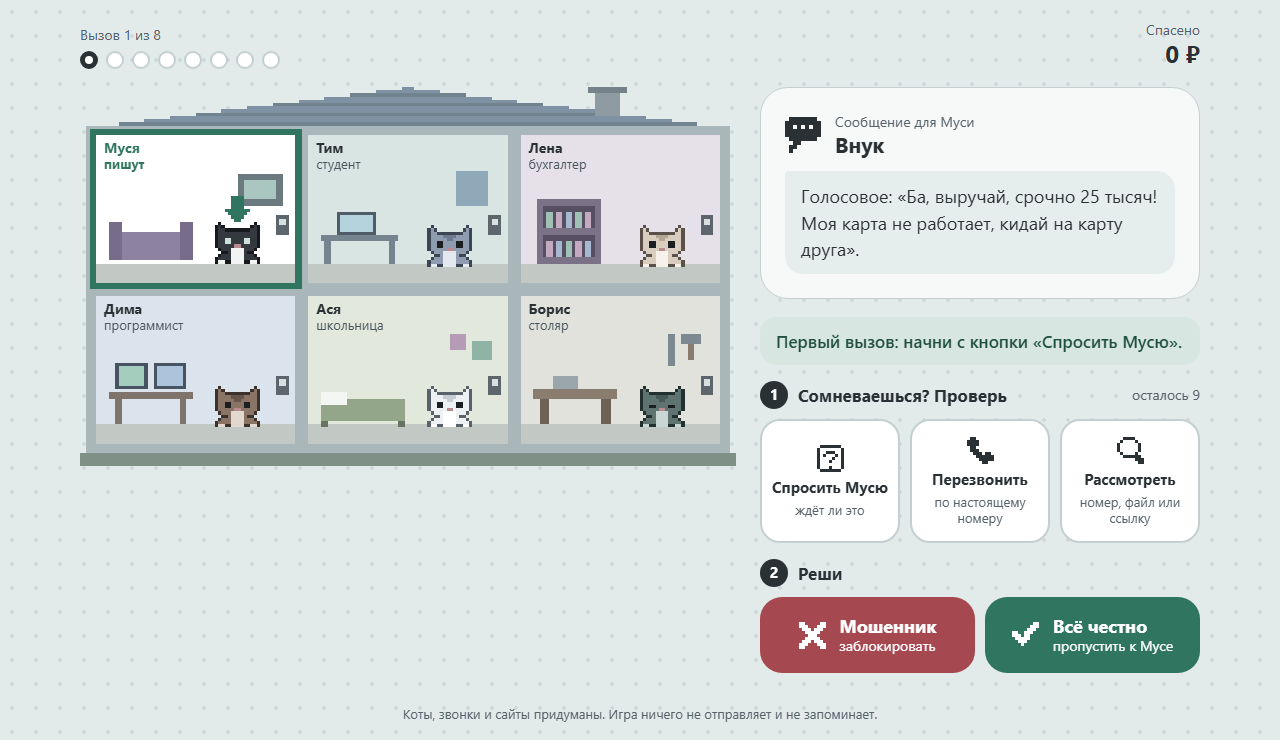
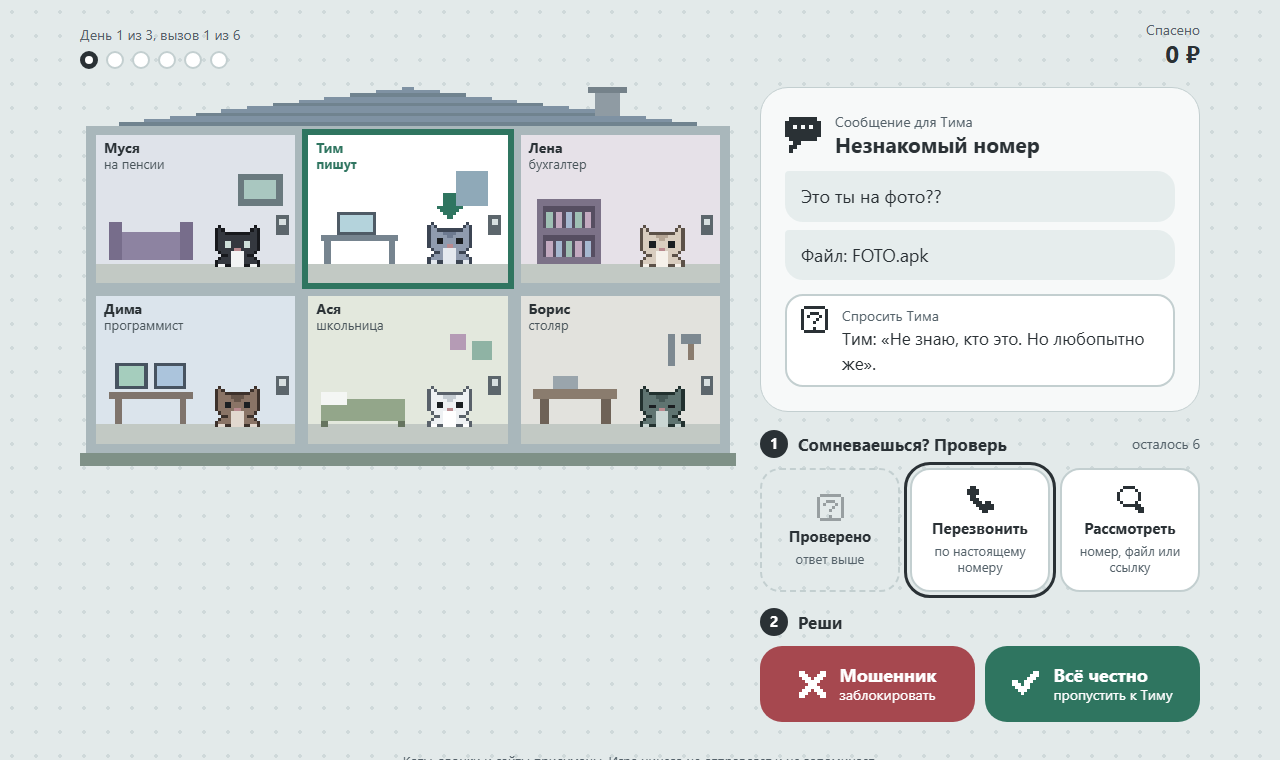
Три дня и память о потерях

diff --git a/js/app.js b/js/app.js
@@ -1,10 +1,11 @@
-// Смена телефониста. Все тексты выводятся через textContent.
+// Три дня телефониста. Все тексты выводятся через textContent.
 (() => {
   const $ = id => document.getElementById(id), card = $('card'), desk = $('desk'), bar = $('bar'), tags = $('tags'), live = $('live'), hg = $('house').getContext('2d');
   const KIND = { call: 'Звонок', sms: 'СМС', chat: 'Сообщение', mail: 'Письмо' };
-  const SCAMS = 5, FAIR = 3, TOTAL = SCAMS + FAIR, CHECKS = 9;
+  const DAYS = [{ scam: 3, fair: 3, checks: 7 }, { scam: 4, fair: 3, checks: 7 }, { scam: 5, fair: 3, checks: 6 }];
+  const ALL = DAYS.reduce((n, d) => n + d.scam + d.fair, 0);
   const calm = matchMedia('(prefers-reduced-motion: reduce)').matches;
-  let shift = [], at = 0, left = CHECKS, used = {}, saved = 0, lost = 0, right = 0, dropped = 0, log = [], state, notes, onKey = null, f = 10;
+  let day = 0, pool = {}, harmed = [], chased = {}, dayRight = 0, daySaved = 0, dayLost = 0, shift = [], at = 0, left = 0, used = {}, saved = 0, lost = 0, right = 0, dropped = 0, log = [], state, notes, onKey = null, f = 10;
 
   function el(tag, cls, ...kids) { const n = document.createElement(tag); if (cls) n.className = cls; for (const k of kids) if (k != null) n.append(k); return n; }
   function button(cls, fn, ...kids) { const b = el('button', cls, ...kids); b.type = 'button'; b.onclick = fn; return b; }
@@ -26,28 +27,35 @@
     }));
   }
   function refresh() { paint(); label(); }
-  function reset() { state = CATS.map(() => 'idle'); notes = CATS.map(() => ''); refresh(); }
+  function reset() { state = CATS.map(() => 'idle'); notes = CATS.map((c, i) => harmed[i] ? 'потеря ' + money(harmed[i]) : ''); refresh(); }
 
   function progress() {
-    const row = el('div', 'steps'); row.setAttribute('role', 'img'); row.setAttribute('aria-label', 'Вызов ' + Math.min(at + 1, TOTAL) + ' из ' + TOTAL);
-    for (let i = 0; i < TOTAL; i++) row.append(el('i', log[i] === undefined ? (i === at ? 'now' : '') : log[i] ? 'ok' : 'bad'));
-    bar.replaceChildren(el('div', '', el('small', '', 'Вызов ' + Math.min(at + 1, TOTAL) + ' из ' + TOTAL), row), el('div', 'sum', el('small', '', 'Спасено'), el('b', '', money(saved))));
+    const total = shift.length, text = 'День ' + (day + 1) + ' из ' + DAYS.length + ', вызов ' + Math.min(at + 1, total) + ' из ' + total;
+    const row = el('div', 'steps'); row.setAttribute('role', 'img'); row.setAttribute('aria-label', text);
+    for (let i = 0; i < total; i++) row.append(el('i', log[i] === undefined ? (i === at ? 'now' : '') : log[i] ? 'ok' : 'bad'));
+    bar.replaceChildren(el('div', '', el('small', '', text), row), el('div', 'sum', el('small', '', 'Спасено'), el('b', '', money(saved))));
   }
   const step = (n, text, ...kids) => el('section', 'step', el('h3', '', el('i', '', String(n)), text), ...kids);
 
   // ===== начало
   function start() {
-    reset(); bar.replaceChildren();
+    harmed = CATS.map(() => 0); reset(); bar.replaceChildren();
     const how = (n, icon, color, title, text) => el('li', '', Pixel.icon(icon, color), el('div', '', el('b', '', title), el('span', '', text)));
     card.replaceChildren(el('h1', '', 'Кот на проводе'), el('p', 'lead', 'Все звонки и сообщения этого дома идут через тебя. Не дай мошенникам обмануть котов.'));
-    desk.replaceChildren(el('ol', 'how', how(1, 'chat', undefined, 'Прочитай', 'Кто и что хочет от кота'), how(2, 'look', undefined, 'Проверь', 'Если есть сомнения. Всего ' + CHECKS + ' проверок'), how(3, 'yes', '#2f7560', 'Реши', 'Пропустить или заблокировать')),
-      button('big go', begin, 'Начать'));
+    desk.replaceChildren(el('ol', 'how', how(1, 'chat', undefined, 'Прочитай', 'Кто и что хочет от кота'), how(2, 'look', undefined, 'Проверь', 'Если есть сомнения. Проверок не хватит на всё'), how(3, 'yes', '#2f7560', 'Реши', 'Пропустить или заблокировать')),
+      button('big go', begin, 'Начать'), el('p', 'note', 'Три дня, около десяти минут.'));
     onKey = null;
   }
   function begin() {
-    const pick = (scam, n) => shuffle(CALLS.filter(c => c.scam === scam)).slice(0, n);
-    shift = shuffle([...pick(true, SCAMS), ...pick(false, FAIR)]);
-    at = saved = lost = right = dropped = 0; left = CHECKS; log = []; reset(); ring();
+    pool = { scam: shuffle(CALLS.filter(c => c.scam)), fair: shuffle(CALLS.filter(c => !c.scam)) };
+    day = saved = lost = right = dropped = 0; harmed = CATS.map(() => 0); chased = {}; openDay();
+  }
+  function openDay() {
+    const d = DAYS[day], scams = pool.scam.splice(0, d.scam), fair = pool.fair.splice(0, d.fair);
+    // обманутому жильцу на следующий день обещают вернуть деньги
+    const i = day ? CATS.findIndex((c, n) => harmed[n] && !chased[c.id]) : -1;
+    if (i >= 0) { const k = CATS[i]; chased[k.id] = true; scams[scams.length - 1] = { ...COMEBACK, to: k.id, ask: COMEBACK.ask.replace('{name}', k.name) }; }
+    shift = shuffle([...scams, ...fair]); at = dayRight = daySaved = dayLost = 0; left = d.checks; log = []; reset(); ring();
   }
 
   // ===== вызов
@@ -57,7 +65,7 @@
   }
   function ring() {
     const c = shift[at], i = room(c); used = {}; state = state.map(s => s === 'ring' ? 'idle' : s); state[i] = 'ring'; notes[i] = { call: 'звонят' }[c.kind] || 'пишут'; refresh(); draw();
-    live.textContent = 'Вызов ' + (at + 1) + ' из ' + TOTAL + '. ' + KIND[c.kind] + ' для ' + who(c).gen + '. ' + c.from + ': ' + c.lines.join(' ');
+    live.textContent = 'День ' + (day + 1) + ', вызов ' + (at + 1) + ' из ' + shift.length + '. ' + KIND[c.kind] + ' для ' + who(c).gen + '. ' + c.from + ': ' + c.lines.join(' ');
     onKey = e => { if (e.key >= '1' && e.key <= '3') check(['ask', 'call', 'look'][e.key - 1]); else if (e.key === 'ArrowLeft') decide(false); else if (e.key === 'ArrowRight') decide(true); };
     scrollTo(0, 0);
   }
@@ -68,7 +76,7 @@
     const row = el('div', 'checks');
     for (const [n, t, sub] of list) { const b = button('check', () => check(n), Pixel.icon(n), el('b', '', used[n] ? 'Проверено' : t), el('small', '', used[n] ? 'ответ выше' : sub)); b.disabled = !!used[n] || left === 0; row.append(b); }
     const s2 = step(1, 'Сомневаешься? Проверь', row); s2.querySelector('h3').append(pips);
-    const hint = at === 0 && left === CHECKS ? el('p', 'hint', 'Первый вызов: начни с кнопки «' + list[0][1] + '».') : null;
+    const hint = day === 0 && at === 0 && left === DAYS[0].checks ? el('p', 'hint', 'Первый вызов: начни с кнопки «' + list[0][1] + '».') : null;
     const s3 = step(2, 'Реши',  el('div', 'decide', button('big no', () => decide(false), Pixel.icon('no', '#fff'), el('span', '', 'Мошенник', el('small', '', 'заблокировать'))), button('big yes', () => decide(true), Pixel.icon('yes', '#fff'), el('span', '', 'Всё честно', el('small', '', 'пропустить к ' + k.dat)))));
     s3.classList.add('final'); desk.replaceChildren(...[hint, s2, s3].filter(Boolean));
     if (focus) (desk.querySelector('.check:not(:disabled)') || desk.querySelector('.no')).focus({ preventScroll: true });
@@ -81,34 +89,43 @@
 
   // ===== решение
   function decide(connect) {
-    const c = shift[at], k = who(c), i = room(c), good = connect !== c.scam; onKey = null; log[at] = good; if (good) right++;
+    const c = shift[at], k = who(c), i = room(c), good = connect !== c.scam; onKey = null; log[at] = good; if (good) { right++; dayRight++; }
     let head, text;
-    if (c.scam && !connect) { saved += c.sum; state[i] = 'ok'; notes[i] = 'в безопасности'; head = 'Правильно, это мошенник'; text = 'Спасено ' + money(c.sum); }
-    else if (c.scam) { lost += c.sum; state[i] = 'lost'; notes[i] = '−' + money(c.sum); head = 'Нет, это был мошенник'; text = k.name + ' теряет ' + money(c.sum); }
+    if (c.scam && !connect) { saved += c.sum; daySaved += c.sum; state[i] = 'ok'; notes[i] = 'в безопасности'; head = 'Правильно, это мошенник'; text = 'Спасено ' + money(c.sum); }
+    else if (c.scam) { lost += c.sum; dayLost += c.sum; harmed[i] += c.sum; state[i] = 'lost'; notes[i] = '−' + money(c.sum); head = 'Нет, это был мошенник'; text = k.name + ' теряет ' + money(c.sum); }
     else if (connect) { state[i] = 'ok'; notes[i] = 'на связи'; head = 'Правильно, всё честно'; text = 'Вызов дошёл до адресата'; }
     else { dropped++; state[i] = 'hurt'; notes[i] = 'без связи'; head = 'Нет, всё было честно'; text = k.name + ' остаётся без важного вызова'; }
+    if (harmed[i]) notes[i] = 'потеря ' + money(harmed[i]);
     refresh(); progress();
     card.replaceChildren(...message(c));
-    const next = button('big go', () => { at++; at < TOTAL ? ring() : finish(); }, at + 1 < TOTAL ? 'Следующий вызов' : 'Посмотреть итог');
+    const next = button('big go', () => { at++; at < shift.length ? ring() : day + 1 < DAYS.length ? evening() : finish(); }, at + 1 < shift.length ? 'Следующий вызов' : day + 1 < DAYS.length ? 'Закончить день' : 'Посмотреть итог');
     desk.replaceChildren(el('div', 'result ' + (good ? 'good' : 'fail'), Pixel.icon(good ? 'yes' : 'no', '#fff'), el('div', '', el('h2', '', head), el('b', '', text))), el('p', 'why', el('b', '', 'Как понять: '), c.why), next);
     live.textContent = head + '. ' + text + '. ' + c.why; next.focus({ preventScroll: true });
     if (matchMedia('(max-width: 900px)').matches) desk.scrollIntoView({ block: 'nearest' });
   }
 
   // ===== итог
-  function rank() { return right === TOTAL ? 'Ни одной ошибки' : right >= 6 ? 'Надёжный телефонист' : right >= 4 ? 'Нужна тренировка' : 'Мошенники довольны'; }
+  const stat = (v, t) => el('div', 'stat', el('b', '', v), el('small', '', t));
+  function evening() {
+    const n = DAYS[day + 1], prey = CATS.find((c, i) => harmed[i] && !chased[c.id]); at = shift.length - 1; onKey = null; progress();
+    const words = prey ? 'Завтра будь внимательнее к вызовам для ' + prey.gen + ': обманутых часто ищут снова.' : (dayLost ? '' : 'Сегодня никто не потерял деньги. ') + 'Завтра мошенников будет больше.';
+    card.replaceChildren(el('h1', '', 'День ' + (day + 1) + ' закончен'), el('p', 'lead', words));
+    const go = button('big go', () => { day++; openDay(); }, 'Начать день ' + (day + 2));
+    desk.replaceChildren(el('div', 'stats', stat(dayRight + ' из ' + shift.length, 'верных решений'), stat(money(daySaved), 'спасено за день'), stat(money(dayLost), 'потеряно за день')), el('p', 'why', 'Завтра вызовов: ' + (n.scam + n.fair) + ', проверок: ' + n.checks + '.'), go);
+    live.textContent = 'День закончен. ' + words; go.focus({ preventScroll: true }); scrollTo(0, 0);
+  }
+  function rank() { const k = right / ALL; return k === 1 ? 'Ни одной ошибки' : k >= .8 ? 'Надёжный телефонист' : k >= .55 ? 'Нужна тренировка' : 'Мошенники довольны'; }
   function finish() {
-    const name = rank(), pic = poster(name), note = el('p', 'note'); note.setAttribute('role', 'status'); at = TOTAL - 1; progress();
+    const name = rank(), pic = poster(name), note = el('p', 'note'); note.setAttribute('role', 'status'); at = shift.length - 1; progress();
     pic.className = 'poster'; pic.setAttribute('role', 'img'); pic.setAttribute('aria-label', name + '. Спасено ' + money(saved));
     card.replaceChildren(pic, el('h1', '', name));
-    const stat = (v, t) => el('div', 'stat', el('b', '', v), el('small', '', t));
     const save = button('check plain', () => pic.toBlob(b => { const a = el('a'); a.href = URL.createObjectURL(b); a.download = 'kot-na-provode.png'; a.click(); setTimeout(() => URL.revokeObjectURL(a.href), 1000); note.textContent = 'Картинка сохранена.'; }), 'Сохранить картинку');
     const share = button('check plain', () => pic.toBlob(async b => {
       const text = 'Кот на проводе: спасено ' + money(saved) + '.' + (location.protocol.startsWith('http') ? ' ' + location.origin + location.pathname : ''), file = new File([b], 'kot-na-provode.png', { type: 'image/png' });
       try { if (navigator.canShare && navigator.canShare({ files: [file] })) await navigator.share({ files: [file], text }); else { await navigator.clipboard.writeText(text); note.textContent = 'Текст скопирован.'; } }
       catch (e) { if (e.name !== 'AbortError') note.textContent = 'Не получилось. Сохрани картинку и отправь её.'; }
     }), 'Поделиться');
-    desk.replaceChildren(el('div', 'stats', stat(right + ' из ' + TOTAL, 'верных решений'), stat(money(lost), 'потеряно'), stat(String(dropped), 'честных заблокировано')), el('div', 'checks two', save, share), button('big go', begin, 'Сыграть ещё'), note);
+    desk.replaceChildren(el('div', 'stats', stat(right + ' из ' + ALL, 'верных решений'), stat(money(lost), 'потеряно'), stat(String(dropped), 'честных заблокировано')), el('div', 'checks two', save, share), button('big go', begin, 'Сыграть ещё'), note);
     live.textContent = name + '. Спасено ' + money(saved); scrollTo(0, 0);
   }
   function poster(name) {

diff --git a/README.md b/README.md
@@ -12,7 +12,7 @@
 2. **Проверь**, если сомневаешься: спроси жильца, перезвони по настоящему номеру или рассмотри отправителя. Проверок меньше, чем хочется.
 3. **Реши**: пропустить или заблокировать.
 
-Пропустишь мошенника, и кот потеряет деньги. Заблокируешь честный вызов, и кот останется без важного. После каждого решения игра объясняет, по каким признакам это можно было понять.
+Игра идёт три дня, и с каждым днём обмана больше. Пропустишь мошенника, и кот потеряет деньги, а завтра ему напишут снова: обманутых ищут повторно. Заблокируешь честный вызов, и кот останется без важного. После каждого решения игра объясняет, по каким признакам это можно было понять.
 
 С клавиатуры: `1`, `2`, `3` для проверок, `←` заблокировать, `→` пропустить.
 
